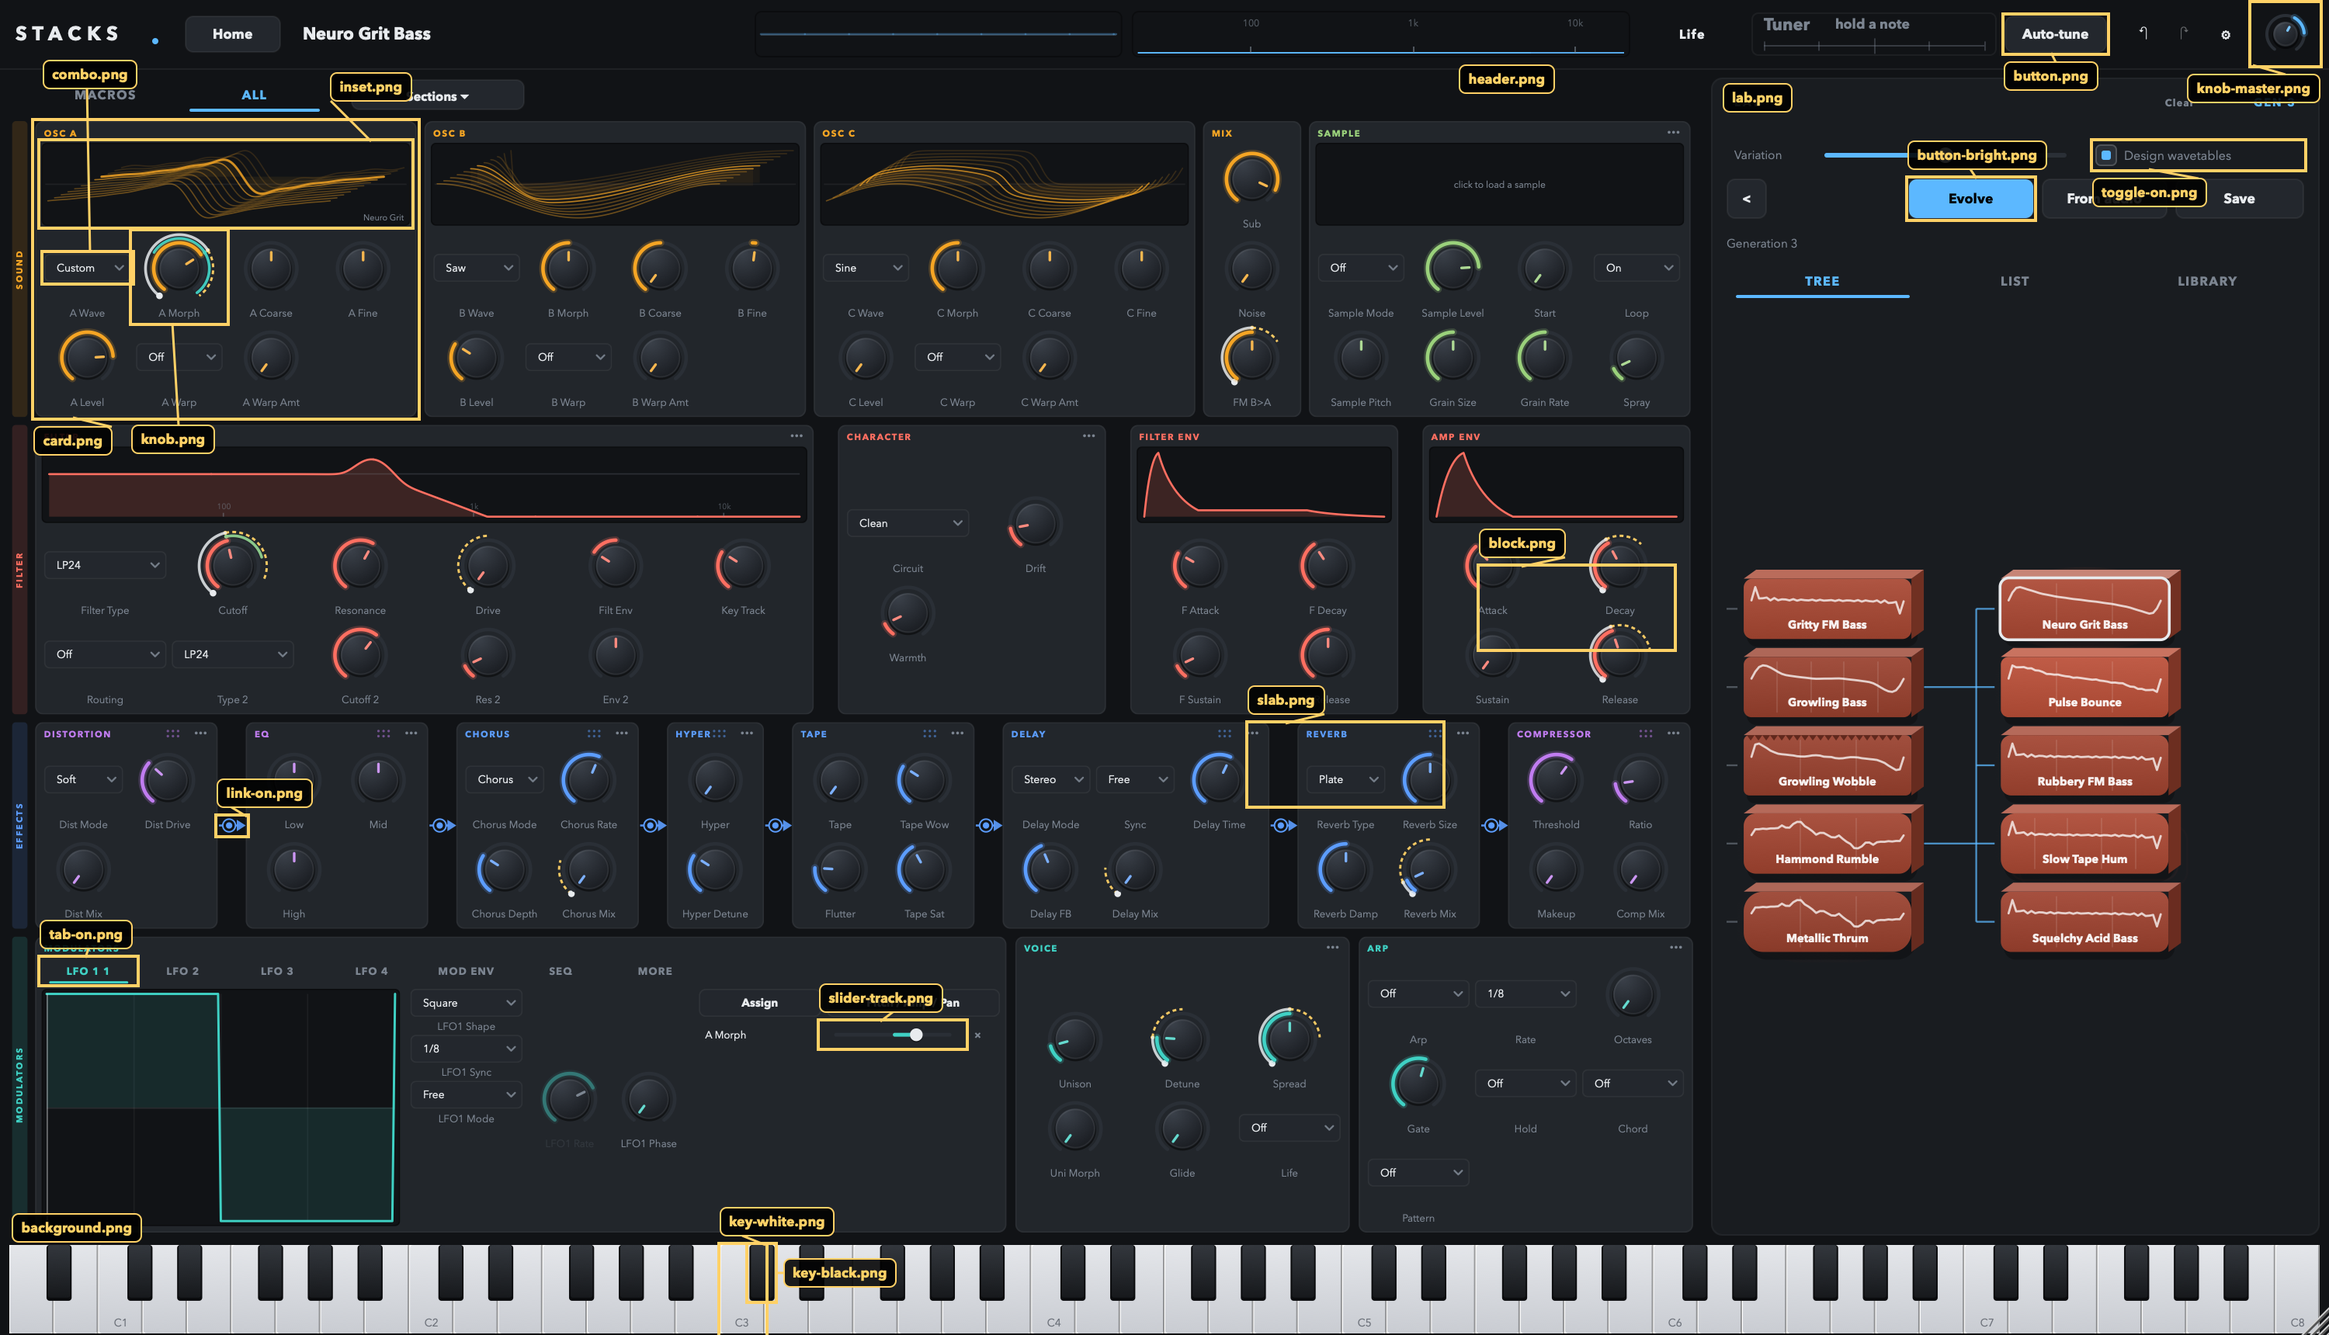
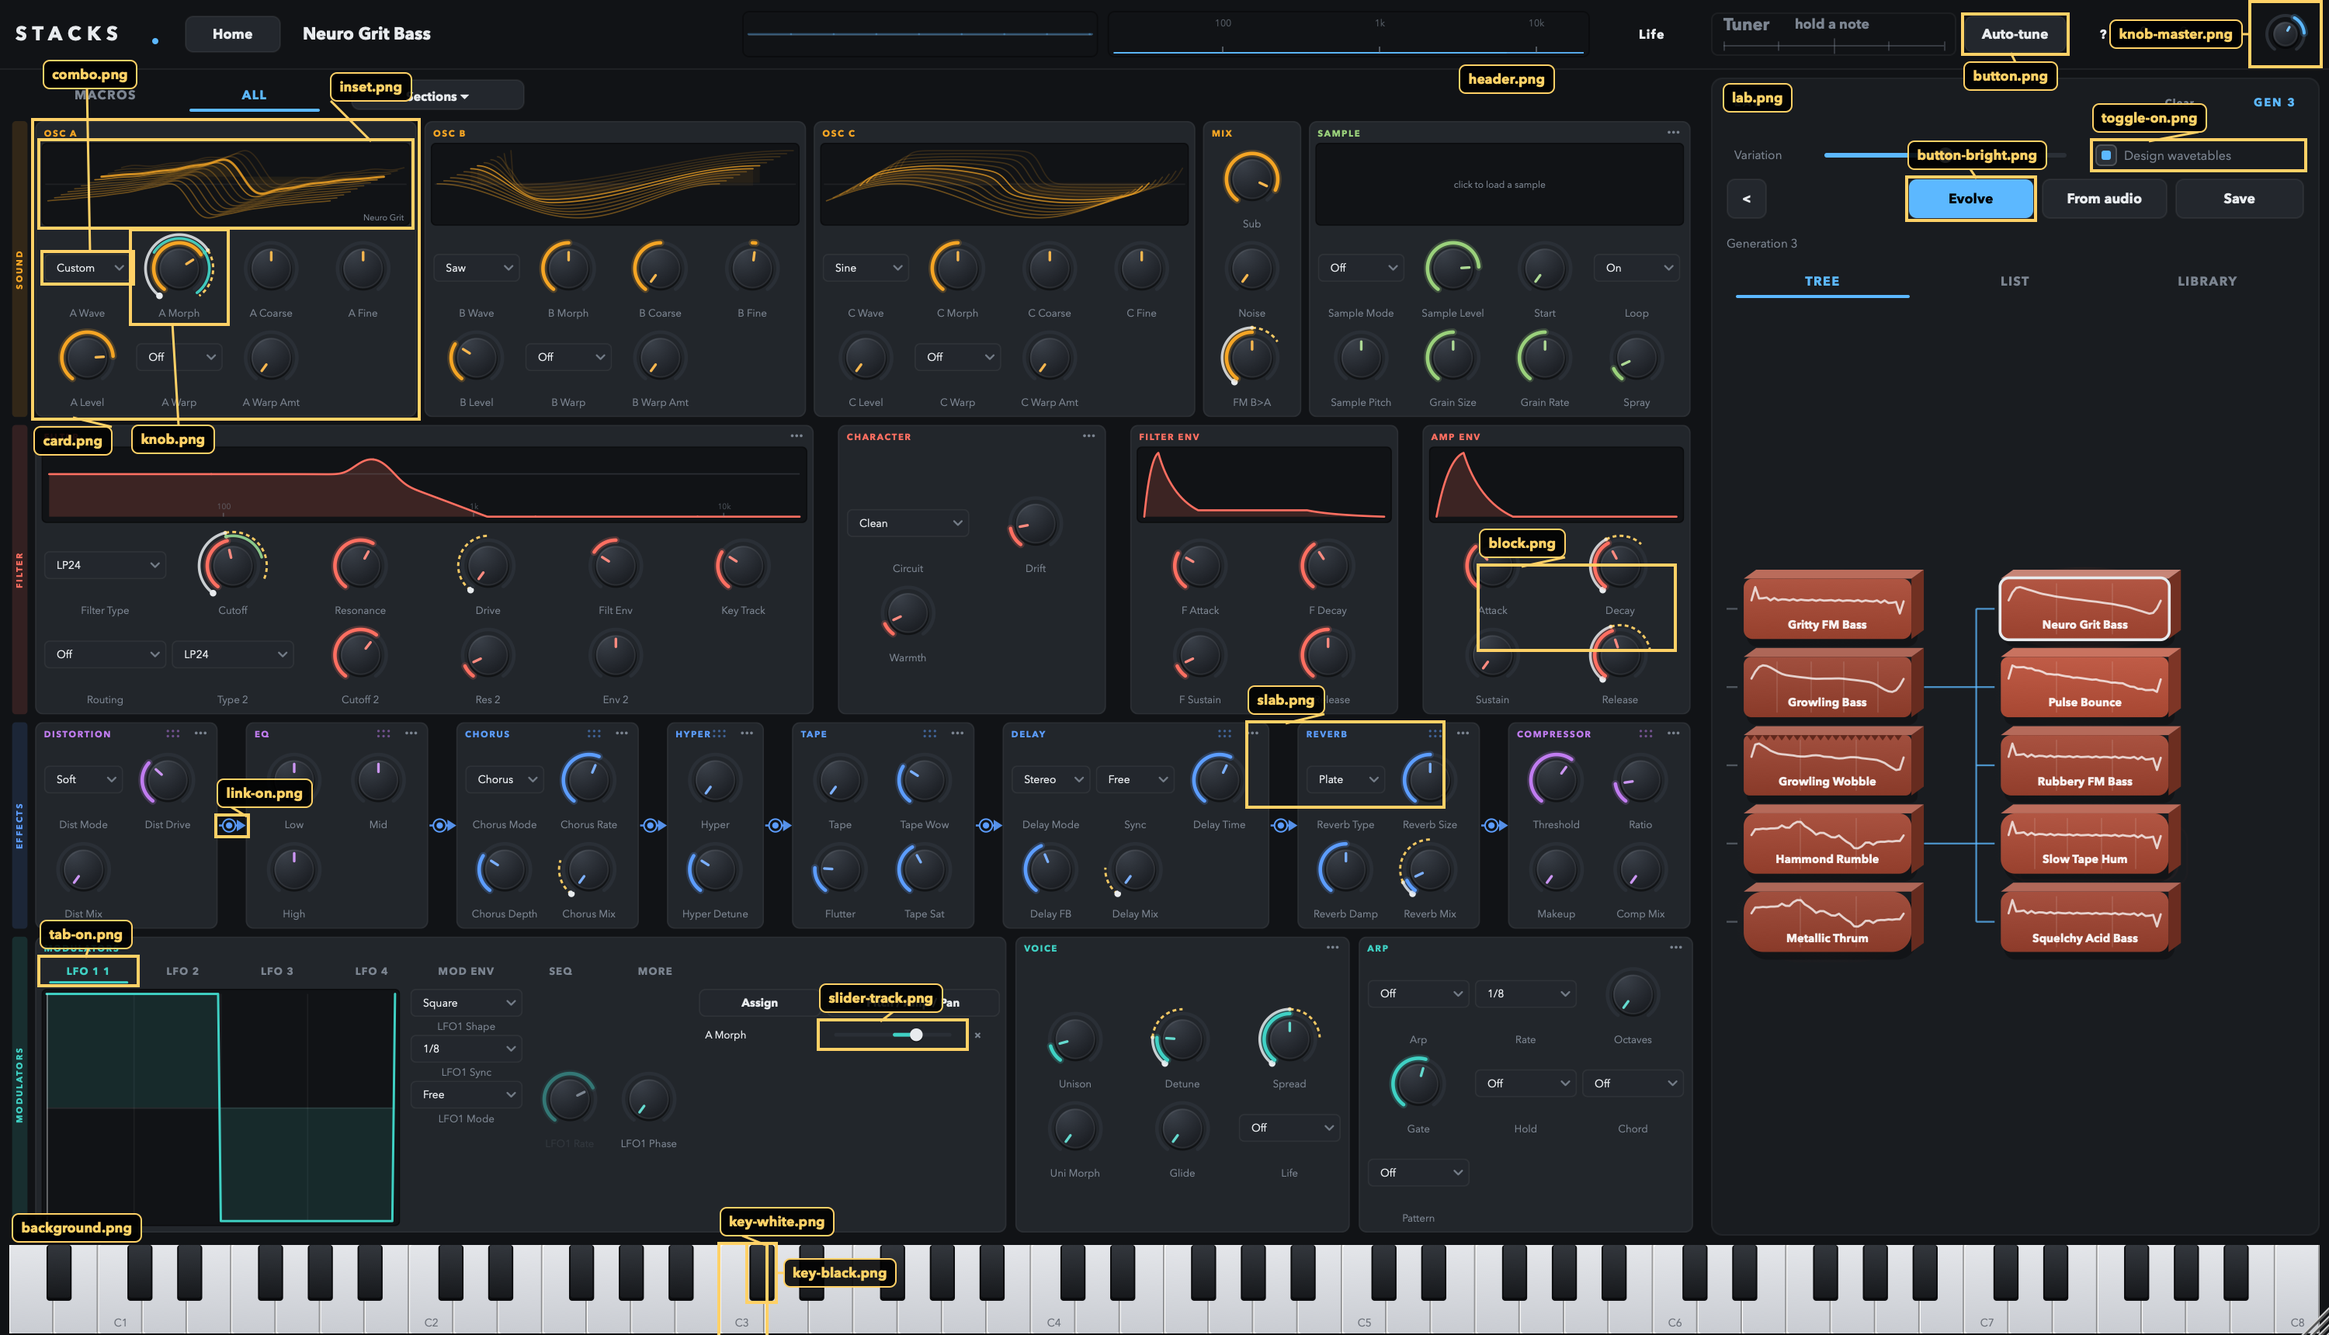
0.1.3: the tree shows one line of work, Life morphs the wavetables, a ? for hover help
- Tree: a batch from nothing in the tree (a kind of sound, a loaded preset,
  fresh ideas, a track) starts a fresh tree (requestNewBatch), and every
  restore prunes to the last root (pruneTreeToLastRoot), so an old session
  no longer shows every sound ever made, only the runs behind the current one.
- Life: oscillator A/B/C morph are now its main targets (0.65/0.55/0.55 of the
  range at level 5), so the wave shape breathes at 1 and sweeps the table at 5.
  Knobs Life moves show the live marker (ParamKnob::setShowsLiveAlways) and the
  wave displays draw the live morph while audio runs (audioRunning heartbeat).
- Header ?: help tips on hover only while it is on (settings "helpTips",
  default off); the tooltip window exists only then. Tour step added.
- Version 0.1.3, tester notes, kit screens re-rendered.

Tests: 1711 checks pass, auval PASS.

Changed region(s): [[0.837, 0.0, 1.0, 0.1541], [0.744, 0.0, 0.806, 0.0308]]

diff --git a/Source/PluginProcessor.cpp b/Source/PluginProcessor.cpp
@@ -214,6 +214,7 @@ void StacksAudioProcessor::processBlock (juce::AudioBuffer<float>& buffer, juce:
     for (const auto meta : midi)
         if (meta.getMessage().isNoteOn()) life.noteOn();
     life.apply (params, params.geti (P::life), numSamples);
+    lastBlockMs.store (juce::Time::getMillisecondCounter(), std::memory_order_relaxed);
 
     std::optional<double> ppq;
     bool hostPlaying = false;
@@ -942,6 +943,12 @@ void StacksAudioProcessor::setSynthRowsMask (int mask)
     settings().setValue ("synthRows", mask);
     settings().saveIfNeeded();
 }
+bool StacksAudioProcessor::helpTips() const { return settings().getBoolValue ("helpTips", false); }
+void StacksAudioProcessor::setHelpTips (bool on)
+{
+    settings().setValue ("helpTips", on);
+    settings().saveIfNeeded();
+}
 
 bool StacksAudioProcessor::tourSeen (const juce::String& screen) const { return settings().getBoolValue ("tour_" + screen, false); }
 void StacksAudioProcessor::markTourSeen (const juce::String& screen)
@@ -1468,6 +1475,7 @@ void StacksAudioProcessor::refreshOllamaModels()
 //==============================================================================
 void StacksAudioProcessor::requestNewBatch (const juce::String& hint, float variation, const juce::String& displayName)
 {
+    startFreshTree();   // a batch from nothing in the tree is a new sound: its tree starts here
     GenerationRequest req;
     req.hint = hint;
     req.displayName = displayName;
@@ -2470,6 +2478,37 @@ void StacksAudioProcessor::treeFromVar (const juce::var& parsed)
     labState.status = labState.generation > 0 ? "Generation " + juce::String (labState.generation) : juce::String();
     if (labState.auditioned >= (int) labState.candidates.size())
         labState.auditioned = -1;
+    pruneTreeToLastRoot();
+}
+
+// The tree shows one sound's line of work. A generation that grew from nothing in the
+// tree (a kind of sound, a loaded preset, fresh ideas) is a root, and anything before
+// the last root belongs to an earlier sound.
+void StacksAudioProcessor::pruneTreeToLastRoot()
+{
+    const int stored = (int) labState.history.size();
+    const int gens = stored + (labState.candidates.empty() ? 0 : 1);
+    auto isRoot = [this, stored] (int g)
+    {
+        const auto& parents = g < stored ? labState.history[(size_t) g].parents : labState.currentParents;
+        for (const auto& ref : parents)
+            if (ref.first >= 0 && ref.first < g) return false;
+        const bool seedIsPatch = g < stored ? labState.history[(size_t) g].seedIsPatch : labState.seedIsPatch;
+        const auto& seed = g < stored ? labState.history[(size_t) g].seed : labState.seed;
+        if (seedIsPatch)   // the tree hangs it under an earlier block of the same name
+            for (int e = 0; e < g; ++e)
+                for (const auto& c : labState.history[(size_t) e].candidates)
+                    if (c.name == seed.name) return false;
+        return true;
+    };
+    int root = 0;
+    for (int g = gens - 1; g >= 0; --g)
+        if (isRoot (g)) { root = g; break; }
+    if (root <= 0)
+        return;
+    labState.history.erase (labState.history.begin(), labState.history.begin() + root);
+    for (auto& gen : labState.history) for (auto& p : gen.parents) p.first -= root;
+    for (auto& p : labState.currentParents) p.first -= root;
 }
 
 } // namespace stacks

diff --git a/Source/PluginEditor.cpp b/Source/PluginEditor.cpp
@@ -56,12 +56,18 @@ StacksAudioProcessorEditor::StacksAudioProcessorEditor (StacksAudioProcessor& p)
     redoButton.setTooltip ("Redo (Shift+Cmd+Z)");
     redoButton.onClick = [this] { synthProcessor.redo(); };
     content.addAndMakeVisible (redoButton);
+    helpButton.setButtonText ("?");
+    helpButton.setTooltip ("Help is on: point at anything to see what it does. Click to turn it off.");
+    helpButton.setClickingTogglesState (false);
+    helpButton.onClick = [this] { synthProcessor.setHelpTips (! synthProcessor.helpTips()); applyHelpTips(); };
+    content.addAndMakeVisible (helpButton);
     content.addAndMakeVisible (lifeButton);
-    for (auto* b : { &settingsButton, &undoButton, &redoButton })
+    for (auto* b : { &settingsButton, &undoButton, &redoButton, &helpButton })
     {
         styleAsTab (*b);
         b->getProperties().set ("bright", true);
     }
+    applyHelpTips();
     // Keys reach the editor itself (undo/redo shortcuts) and otherwise pass on to
     // the host, so Logic's musical typing keeps working; no child is focused
     // until it is clicked.
@@ -162,7 +168,8 @@ void StacksAudioProcessorEditor::maybeStartTour()
         steps = { { in (homeView, homeView.tourArea ("tiles")), "Pick a kind of sound. Stacks makes five new ones just for you." },
                   { whole (keyboard), "Play notes here, or use your own MIDI keyboard." },
                   { whole (modeButton), "Synth opens every knob. Home always brings you back here." },
-                  { [this] { return undoButton.getBounds().getUnion (redoButton.getBounds()); }, "Undo and redo any change." } };
+                  { [this] { return undoButton.getBounds().getUnion (redoButton.getBounds()); }, "Undo and redo any change." },
+                  { whole (helpButton), "? turns on help. With it on, point at anything to see what it does." } };
     }
     else if (showingHome && homeView.showingResults() && ! synthProcessor.tourSeen ("results"))
     {
@@ -271,6 +278,7 @@ void StacksAudioProcessorEditor::resized()
     settingsButton.setBounds (header.removeFromRight (28).withSizeKeepingCentre (26, 26));
     redoButton.setBounds (header.removeFromRight (26).withSizeKeepingCentre (24, 26));
     undoButton.setBounds (header.removeFromRight (26).withSizeKeepingCentre (24, 26));
+    helpButton.setBounds (header.removeFromRight (26).withSizeKeepingCentre (24, 26));
     header.removeFromRight (10);
     tuner.setBounds (header.removeFromRight (230).reduced (0, 8));
     header.removeFromRight (8);
@@ -482,4 +490,14 @@ void StacksAudioProcessorEditor::setHome (bool home)
     });
 }
 
+} // namespace stacks
+
+namespace stacks {
+void StacksAudioProcessorEditor::applyHelpTips()
+{
+    const bool on = synthProcessor.helpTips();
+    helpButton.setToggleState (on, juce::dontSendNotification);
+    if (on && tooltips == nullptr) tooltips = std::make_unique<juce::TooltipWindow> (this, 600);
+    else if (! on) tooltips.reset();
+}
 } // namespace stacks

diff --git a/Source/SynthPanel.cpp b/Source/SynthPanel.cpp
@@ -1,4 +1,5 @@
 #include "SynthPanel.h"
+#include "Life.h"
 #include "Skin.h"
 #include <algorithm>
 #include "Displays.h"
@@ -105,7 +106,9 @@ WaveDisplay::~WaveDisplay()
 void WaveDisplay::timerCallback()
 {
     const int wave = (int) processor.apvts.getRawParameterValue (paramId (oscWaveParam (osc)))->load();
-    const float morph = processor.apvts.getRawParameterValue (paramId (oscMorphParam (osc)))->load();
+    float morph = processor.apvts.getRawParameterValue (paramId (oscMorphParam (osc)))->load();
+    if ((int) processor.apvts.getRawParameterValue (paramId (P::life))->load() > 0 && processor.audioRunning())
+        morph = processor.liveValue ((int) oscMorphParam (osc));   // Life is moving the table: draw where it is
     const int warp = (int) processor.apvts.getRawParameterValue (paramId (oscWarpParam (osc)))->load();
     const float warpAmt = processor.apvts.getRawParameterValue (paramId (oscWarpAmtParam (osc)))->load();
     const int slot = wave >= kCustomWave ? UserWavetables::customSlot (osc) : wave - WavetableBank::kNumBuiltIn;
@@ -808,8 +811,12 @@ void SynthPanel::timerCallback()
         for (auto* knob : knobs) knob->clearLiveValue();
         return;
     }
+    const bool lifeOn = (int) apvts.getRawParameterValue (paramId (P::life))->load() > 0 && processor.audioRunning();
     for (auto* knob : knobs)
+    {
+        knob->setShowsLiveAlways (lifeOn && Life::isTarget (knob->parameterIndex()));   // Life moves these: show where they are
         knob->setLiveValue (processor.liveValue (knob->parameterIndex()));
+    }
 }
 
 void SynthPanel::changeListenerCallback (juce::ChangeBroadcaster*)

diff --git a/Source/PluginProcessor.h b/Source/PluginProcessor.h
@@ -178,6 +178,9 @@ public:
     float uiScale() const;
     void setUiScale (float scaleOrZero);
 
+    bool helpTips() const;                  // the ? in the header: tips on hover
+    void setHelpTips (bool);
+    bool audioRunning() const               { return juce::Time::getMillisecondCounter() - lastBlockMs.load (std::memory_order_relaxed) < 400; }
     int synthRowsMask() const;              // which Synth sections are on show (bit per row); 0 = all
     void setSynthRowsMask (int mask);
 
@@ -303,6 +306,7 @@ private:
     juce::String labToJson() const;
     juce::var treeToVar() const;                 // the family tree alone: generations, parents, the current batch
     void treeFromVar (const juce::var&);
+    void pruneTreeToLastRoot();                  // only the current line of work stays
     void labFromJson (const juce::String&);
     void processEffects (juce::AudioBuffer<float>&);
 
@@ -323,6 +327,7 @@ private:
     Life life;                                            // the Life layer's offsets go into `params` each block
     SynthParams fxParams;                                 // base + global modulation, read by the effects
     std::array<std::atomic<float>, kNumParams> liveValues {};
+    std::atomic<juce::uint32> lastBlockMs { 0 };   // when audio last ran, so the UI knows the live values are fresh
     VoiceContext voiceContext;
     LfoTableBank lfoTables;
     float lfoPhase[kNumLfos] {}, lfoHeld[kNumLfos] {};

diff --git a/Source/Controls.cpp b/Source/Controls.cpp
@@ -301,9 +301,16 @@ void ParamKnob::showModulationMenu()
     });
 }
 
+void ParamKnob::setShowsLiveAlways (bool on)
+{
+    if (showLiveAlways == on) return;
+    showLiveAlways = on;
+    if (! on && modulations.empty()) clearLiveValue();
+}
+
 void ParamKnob::setLiveValue (float realValue)
 {
-    if (modulations.empty() || paramIndex < 0)
+    if ((modulations.empty() && ! showLiveAlways) || paramIndex < 0)
         return;
     const float norm = (float) slider.valueToProportionOfLength (juce::jlimit (slider.getMinimum(), slider.getMaximum(), (double) realValue));
     if (std::abs (norm - liveNorm) > 0.002f)
@@ -541,7 +548,7 @@ void ParamKnob::paint (juce::Graphics& g)
     // Live marker: where the modulation has the value right now.
     if (liveNorm >= 0.0f && isEnabled())
     {
-        const float outer = ringRadiusFor ((int) modulations.size() - 1);
+        const float outer = ringRadiusFor (juce::jmax (0, (int) modulations.size() - 1));
         const float a0 = rotary.startAngleRadians + v0 * span;
         const float a1 = rotary.startAngleRadians + juce::jlimit (0.0f, 1.0f, liveNorm) * span;
         juce::Path sweep;

diff --git a/Source/Life.cpp b/Source/Life.cpp
@@ -5,13 +5,20 @@ namespace stacks
 {
 
 const Life::Target Life::targets[Life::kTargets] = {
-    { P::oscA_morph, 0.35f }, { P::oscB_morph, 0.30f }, { P::oscA_warp_amt, 0.20f }, { P::fm_amount, 0.08f },
+    // the wavetables themselves move most: a whisper at level 1, a long slow sweep at 5
+    { P::oscA_morph, 0.65f }, { P::oscB_morph, 0.55f }, { P::oscC_morph, 0.55f }, { P::oscA_warp_amt, 0.30f }, { P::fm_amount, 0.08f },
     { P::filter_cutoff, 0.30f }, { P::filter_res, 0.20f }, { P::filter_env, 0.15f },
     { P::unison_detune, 0.25f }, { P::unison_spread, 0.30f },
     { P::lfo1_rate, 0.25f }, { P::lfo2_rate, 0.20f },
     { P::chorus_mix, 0.25f }, { P::delay_mix, 0.20f }, { P::reverb_mix, 0.25f }, { P::dist_drive, 0.15f }, { P::char_sat, 0.20f },
     { P::aenv_attack, 0.20f }, { P::aenv_release, 0.30f },
 };
+
+bool Life::isTarget (int paramIndex) noexcept
+{
+    for (const auto& t : targets) if ((int) t.param == paramIndex) return true;
+    return false;
+}
 
 float Life::levelAmount (int level) noexcept
 {

diff --git a/Source/Controls.h b/Source/Controls.h
@@ -79,6 +79,7 @@ public:
     void flash();                                      // show the value in the accent colour for a moment (a tweak moved it)
     void showWritten (float realValue);                // the engine just wrote this value: the marker travels to it and the caption shows it
     void clearWritten();
+    void setShowsLiveAlways (bool);                    // show the live marker even without modulation (Life moves this knob)
     int parameterIndex() const { return paramIndex; }
 
     void resized() override;
@@ -131,6 +132,7 @@ private:
     int paramIndex = -1;
     bool compact = false, large = false, assignMode = false, dragOver = false, showingValue = false, flashing = false;
     float liveNorm = -1.0f;                          // -1 = none
+    bool showLiveAlways = false;
     float writtenNorm = -1.0f, writtenFromNorm = 0.0f, writtenReal = 0.0f;   // the engine's value in progress; -1 = none
     double writtenStartMs = 0.0;
     juce::Colour assignColour, dragColour;

diff --git a/Source/PluginEditor.h b/Source/PluginEditor.h
@@ -46,7 +46,8 @@ private:
     ParamKnob masterKnob;
     ScopeView scope;
     TunerView tuner;
-    juce::TextButton settingsButton, undoButton, redoButton;
+    juce::TextButton settingsButton, undoButton, redoButton, helpButton;   // ? = tips on hover
+    void applyHelpTips();
     LifeSwitch lifeButton;   // compact: Life on and off from any screen
     juce::Component::SafePointer<juce::DialogWindow> settingsWindow;   // one at a time; closed with the editor
     SynthPanel synthPanel;
@@ -65,7 +66,7 @@ private:
     void drawAnnotations (juce::Image&, float scale);
     StacksKeyboard keyboard;
     juce::Rectangle<int> headerBounds;
-    juce::TooltipWindow tooltips { this, 600 };
+    std::unique_ptr<juce::TooltipWindow> tooltips;   // only while the ? is on
 };
 
 } // namespace stacks

diff --git a/Source/Life.h b/Source/Life.h
@@ -22,10 +22,11 @@ public:
 
     static constexpr int kLevels = 5;
     static float levelAmount (int level) noexcept;   // how far level 1..5 reaches, 0..1 of each target's excursion
+    static bool isTarget (int paramIndex) noexcept;  // one of the knobs Life moves
 
 private:
     struct Target { P param; float excursion; };    // excursion: fraction of the knob's range at level 5
-    static constexpr int kTargets = 18;
+    static constexpr int kTargets = 19;
     static const Target targets[kTargets];
     float phase[kTargets][3] {}, rate[kTargets][3] {};
     float kick[kTargets] {};
